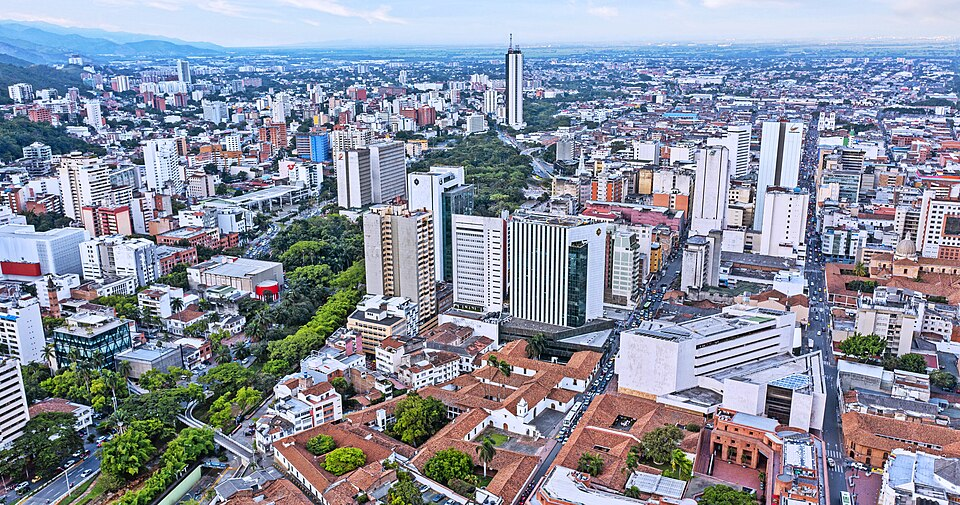
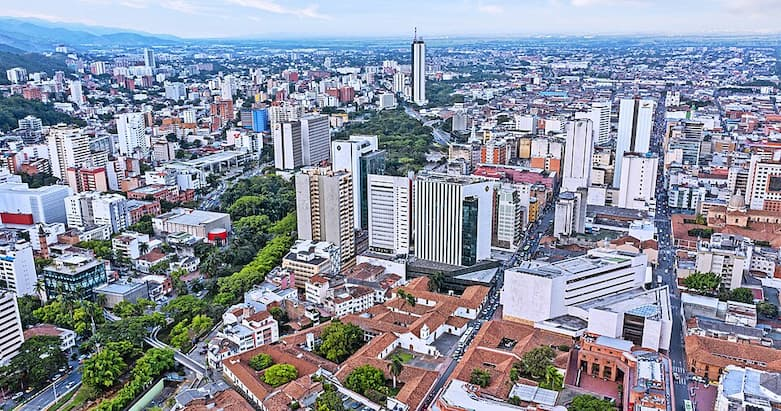
3

diff --git a/index.html b/index.html
@@ -5,7 +5,7 @@
     <meta charset="UTF-8">
     <meta name="viewport" content="width=device-width, initial-scale=1.0">
     <title>Mauricio Galindo Zuñiga | WDD 130</title>
-    <meta name="description" content="MAuricio Galindo´s BYU-IDaho WDD 130 course page">
+    <meta name="description" content="Mauricio Galindo Zuñiga´s BYU-IDaho WDD 130 course page">
     <meta name="author" content="Mauricio Galindo">
 
     <link rel="stylesheet" href="styles/styles.css">
@@ -27,7 +27,7 @@
 
     <aside>
         <h2>Cali, Colombia</h2>
-        <img src="images/Cali_city.jpg" alt="Cali, city of Colombia" width="400">
+        <img src="images/cali_city.jpg" alt="Cali, city of Colombia" width="400">
         <p>Santiago de Cali, popularly known as Cali and affectionately called the "Branch of Heaven" or the "World Capital of Salsa", is Colombia's third-most populous city and the economic, cultural, and social epicenter of the country's southwestern region.</p>
 
     </aside>

diff --git a/styles/styles.css b/styles/styles.css
@@ -1,3 +1,20 @@
+nav {
+    background-color: #333;
+    padding: 10px;
+}
+
+nav a {
+    color: white;
+    padding: 10px;
+    display: block;
+
+}
+
+h1 {
+    color: green;
+    text-align: center;
+}
+
 aside {
     width: 20rem;
     margin: 1rem;
@@ -14,14 +31,16 @@ p {
 }
 
 aside img {
-    width: 200px;
+    width: 300px;
     height: auto;
 }
 
 main img {
-    width: 150px;
+    width: 300px;
     height: auto;
     box-shadow: 0 0 10px #333;
+    padding: 2px;
+    border: 1px solid steelblue;
 }
 
 footer {
